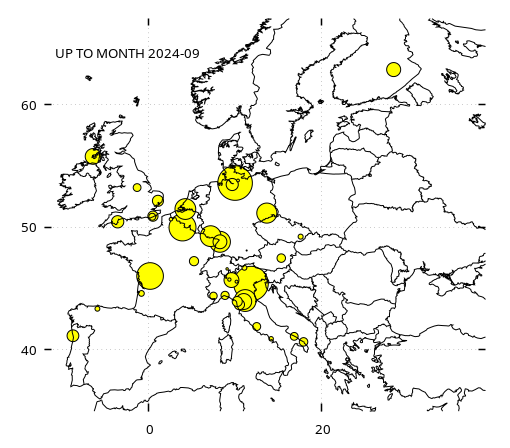
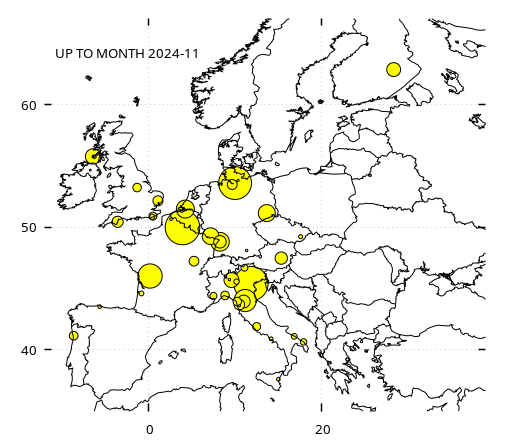
Upload how it looks like 2024-12-20

diff --git a/eucw.org/sl.html b/eucw.org/sl.html
@@ -266,8 +266,8 @@ Reps 2024-I:
 <a href="sl2405.txt">05</a> <a href="sl2406.txt">06</a> II: <a
 href=
 "sl2407.txt">07</a> <a href="sl2408.txt">08</a> <a href=
-"sl2409.txt">09</a> <a href="https://eucw.org/sl2410.txt">10</a> <a href=
-"https://eucw.org/sl2411.txt">11</a> <a href="https://eucw.org/sl2412.txt">12</a>
+"sl2409.txt">09</a> <a href="sl2410.txt">10</a> <a href=
+"sl2411.txt">11</a> <a href="https://eucw.org/sl2412.txt">12</a>
 <b>Maps</b> 2024-I:
 <a href="sl2401.png">01</a>
 <a href="sl2402.png">02</a>
@@ -275,7 +275,7 @@ href=
 <a href="sl2404.png">04</a> <a href="sl2405.png">05</a> <a href=
 "sl2406.png">06</a> II: <a href="sl2407.png">07</a> <a href=
 "sl2408.png">08</a> <a href="sl2409.png">09</a> <a href=
-"https://eucw.org/sl2410.png">10</a> <a href="https://eucw.org/sl2411.png">11</a> <a href=
+"sl2410.png">10</a> <a href="sl2411.png">11</a> <a href=
 "https://eucw.org/sl2412.png">12</a>
 </h3>
 </B>

diff --git a/eucw.org/index.html b/eucw.org/index.html
@@ -58,8 +58,8 @@ The European CW Association<BR>
 <FONT size="-2">Web space sponsored by AGCW</FONT><BR></H1>
 <!-- BEGINNEWS -->
 <h3><hr><br>
-2024-10-10 Current <a href="qtc244.txt">EUCW Bulletin</a> available.<p><p><hr>
-2024-10-09 September <a href="sl2409.txt"> Text </a> and <a href="sl2409.png"> Map </a>results of Snakes and Ladders <a href="slpx.png">(Activity map)</a>.<p><p><hr>
+2024-11-09 November <a href="sl2411.txt"> Text </a> and <a href="sl2411.png"> Map </a>results of Snakes and Ladders <a href="slpx.png">(Activity map)</a>.<p><p><hr>
+2024-10-09 October <a href="sl2410.txt"> Text </a> and <a href="sl2410.png"> Map </a>results of Snakes and Ladders <a href="slpx.png">(Activity map)</a>.<p><p><hr>
 </h3>
 <!-- ENDNEWS -->
 <TABLE width="100%" border="0" cellpadding="2">

diff --git a/eucw.org/root.html b/eucw.org/root.html
@@ -58,8 +58,8 @@ The European CW Association<BR>
 <FONT size="-2">Web space sponsored by AGCW</FONT><BR></H1>
 <!-- BEGINNEWS -->
 <h3><hr><br>
-2024-10-10 Current <a href="qtc244.txt">EUCW Bulletin</a> available.<p><p><hr>
-2024-10-09 September <a href="sl2409.txt"> Text </a> and <a href="sl2409.png"> Map </a>results of Snakes and Ladders <a href="slpx.png">(Activity map)</a>.<p><p><hr>
+2024-11-09 November <a href="sl2411.txt"> Text </a> and <a href="sl2411.png"> Map </a>results of Snakes and Ladders <a href="slpx.png">(Activity map)</a>.<p><p><hr>
+2024-10-09 October <a href="sl2410.txt"> Text </a> and <a href="sl2410.png"> Map </a>results of Snakes and Ladders <a href="slpx.png">(Activity map)</a>.<p><p><hr>
 </h3>
 <!-- ENDNEWS -->
 <TABLE width="100%" border="0" cellpadding="2">

diff --git a/eucw.org/news.html b/eucw.org/news.html
@@ -3,6 +3,8 @@
 <BR CLEAR=LEFT>
 <H1>News and Changes</H1>
 <P>
+2024-11-09 November <a href="sl2411.txt"> Text </a> and <a href="sl2411.png"> Map </a>results of Snakes and Ladders <a href="slpx.png">(Activity map)</a>.<p>
+2024-10-09 October <a href="sl2410.txt"> Text </a> and <a href="sl2410.png"> Map </a>results of Snakes and Ladders <a href="slpx.png">(Activity map)</a>.<p>
 2024-10-10 Current <a href="qtc244.txt">EUCW Bulletin</a> available.<p>
 2024-10-09 September <a href="sl2409.txt"> Text </a> and <a href="sl2409.png"> Map </a>results of Snakes and Ladders <a href="slpx.png">(Activity map)</a>.<p>
 2024-09-09 August <a href="sl2408.txt"> Text </a> and <a href="sl2408.png"> Map </a>results of Snakes and Ladders.<p>
